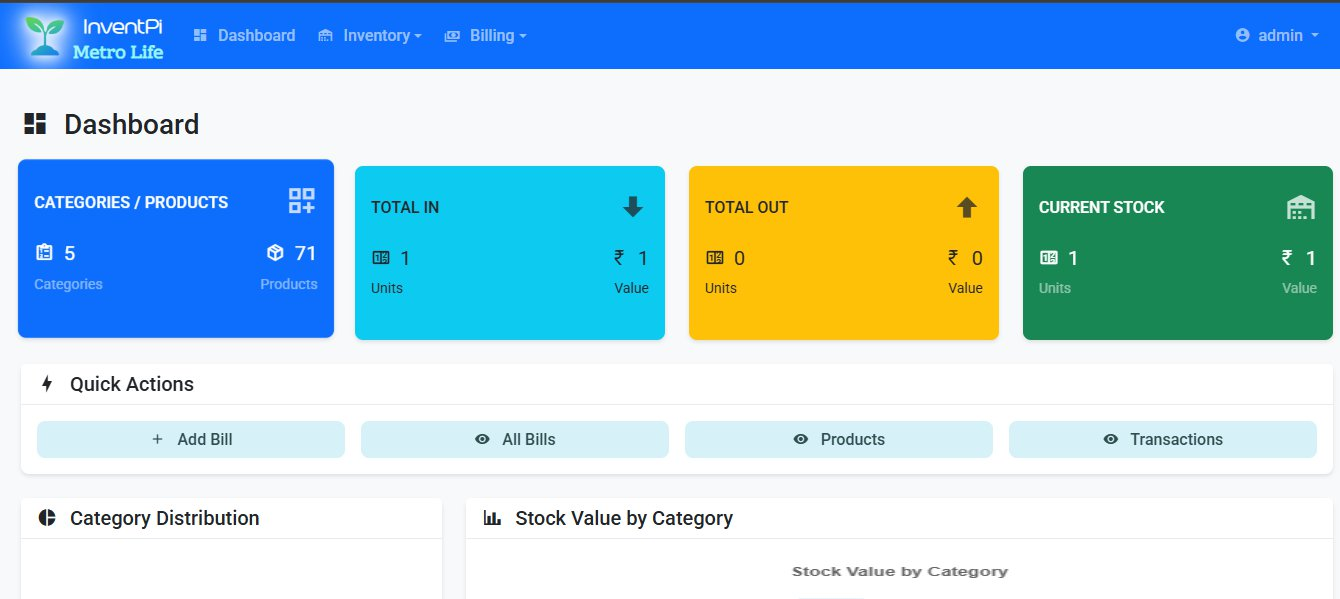
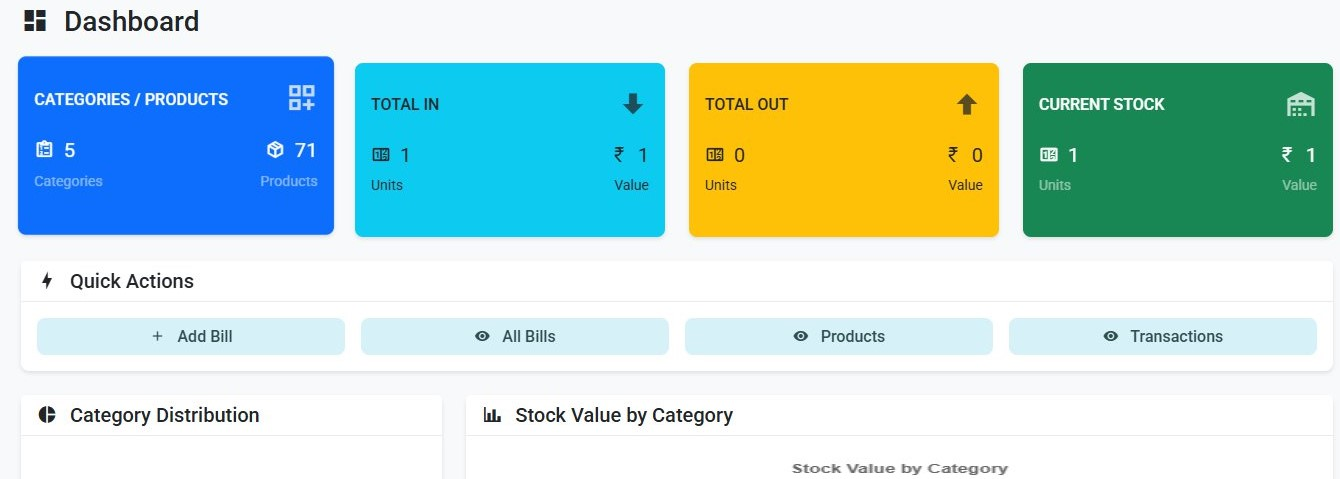
img updated

diff --git a/README.md b/README.md
@@ -19,6 +19,8 @@
 ![Future](https://img.shields.io/badge/Linux%20%7C%20macOS-Planned-lightgrey)
 ![Status](https://img.shields.io/badge/status-Stable-success)
 
+
+<a href=""><img width="800" alt="" src="/assets/screenshots/snap1.jpg"></a>
 </div>
 
 ---
